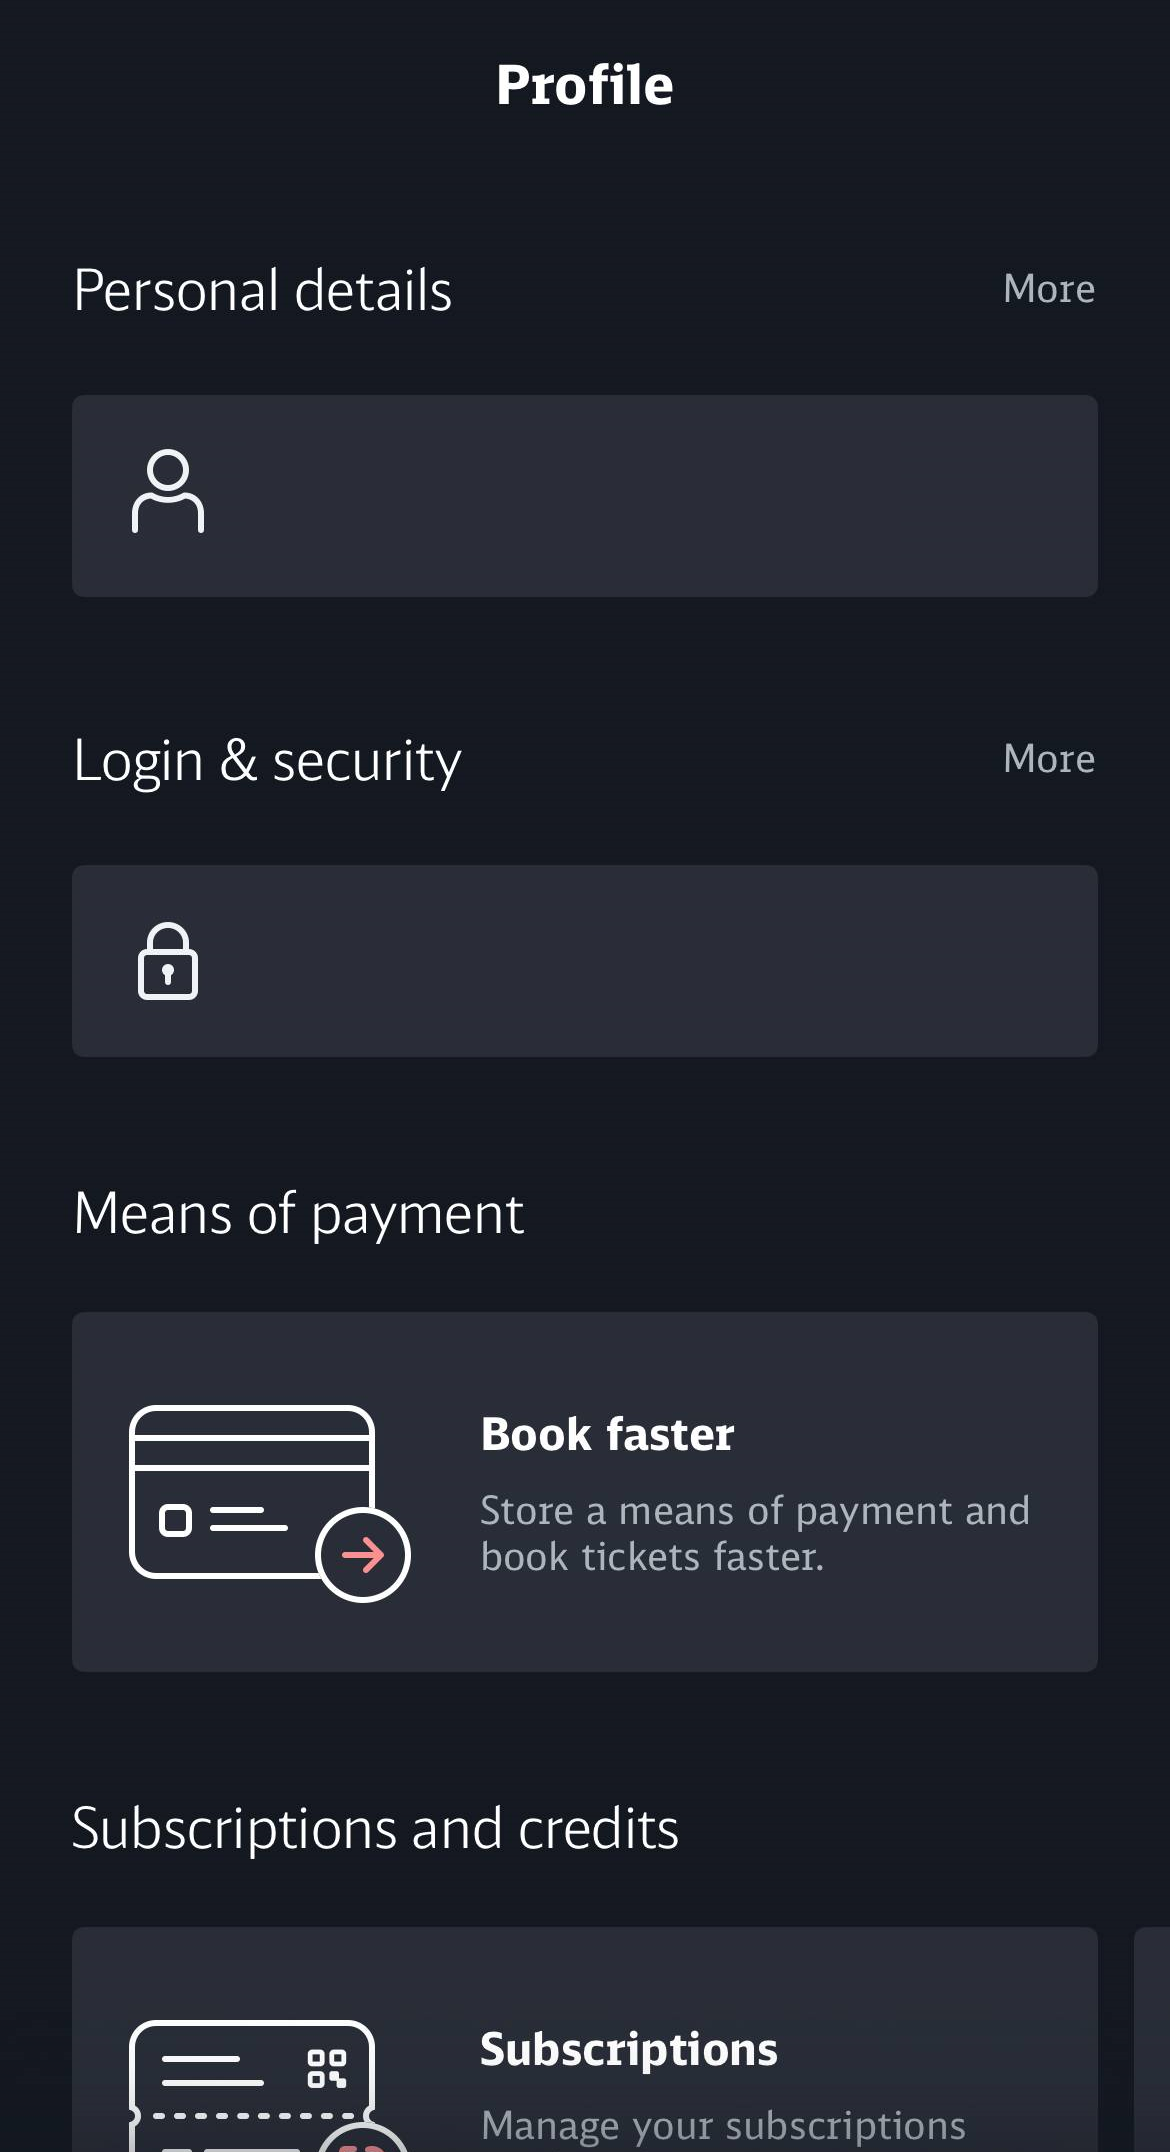
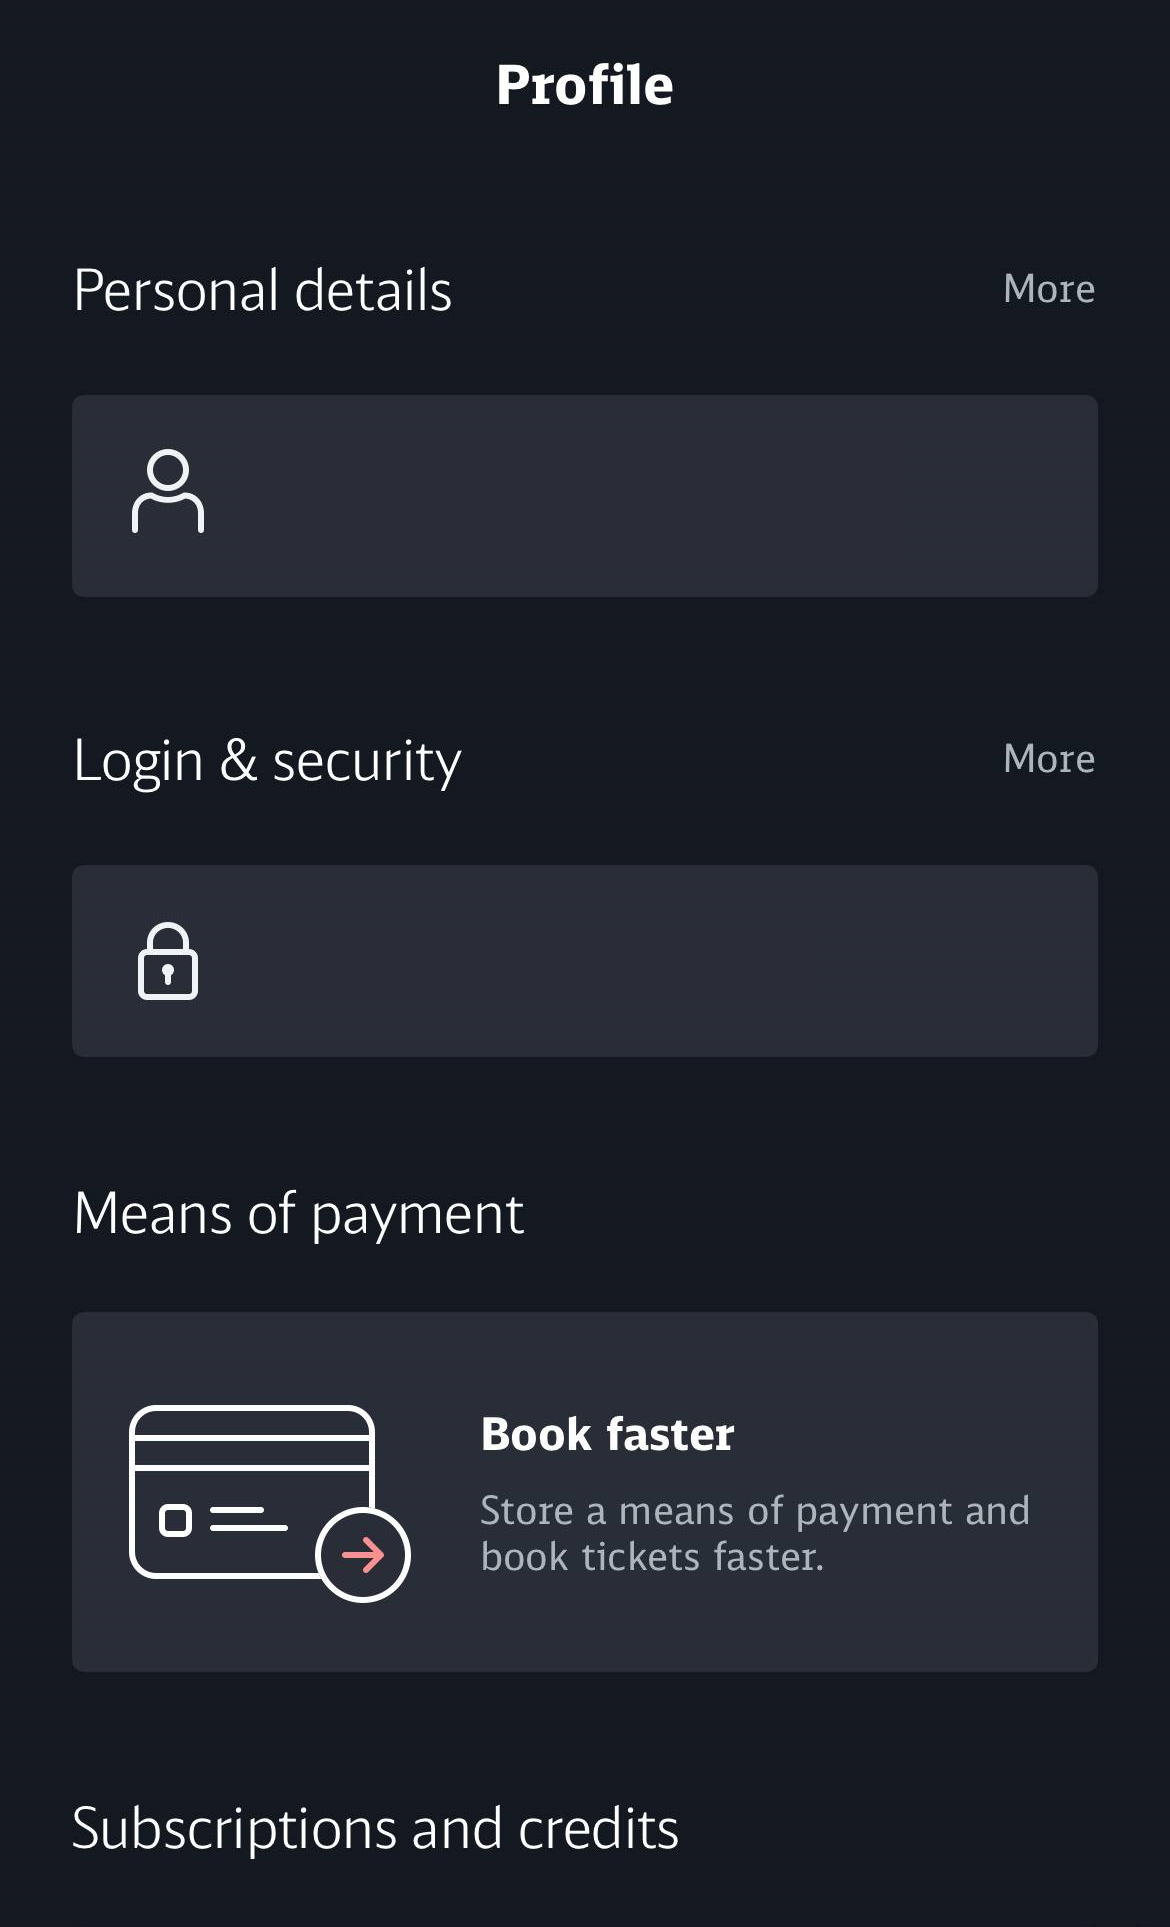
Open media fullscreen and blur the Profile tab bar

diff --git a/docs/style.css b/docs/style.css
@@ -91,50 +91,36 @@ h1, h2, p { margin: 0; }
   font-weight: 750;
   text-align: left;
 }
-.detail-heading {
-  position: relative;
-  display: flex;
-  justify-content: center;
-  align-items: center;
-  min-height: calc(160 * var(--unit));
-  padding-inline: calc(185 * var(--unit));
-  text-align: center;
-}
-.detail-heading h2 { font-size: calc(52 * var(--unit)); line-height: 1.12; }
 .back-button {
   position: absolute;
-  left: calc(48 * var(--unit));
+  inset-block-start: max(14px, env(safe-area-inset-top));
+  inset-inline-start: 16px;
   display: grid;
   place-items: center;
-  width: calc(132 * var(--unit));
-  height: calc(132 * var(--unit));
-  border: 1px solid #353944;
+  width: 48px;
+  height: 48px;
+  padding: 0;
+  border: 1px solid #f6f8fb3d;
   border-radius: 50%;
-  background: transparent;
+  background: #161922b5;
+  -webkit-backdrop-filter: blur(8px);
+  backdrop-filter: blur(8px);
 }
-.back-button svg { width: calc(63 * var(--unit)); height: calc(63 * var(--unit)); }
-.back-button svg, .profile-photo svg {
+.back-button svg { width: 24px; height: 24px; }
+.back-button svg, .profile-photo svg, .subscription-card svg {
   fill: none;
   stroke: currentColor;
   stroke-width: 1.7;
   stroke-linecap: round;
   stroke-linejoin: round;
 }
-.video-stage {
-  display: grid;
-  place-items: center;
-  position: relative;
-  background: #101117;
+.personal-more {
+  top: calc(225 * var(--unit));
+  right: calc(52 * var(--unit));
+  width: calc(146 * var(--unit));
+  height: calc(132 * var(--unit));
+  border-radius: calc(13 * var(--unit));
 }
-#local-video {
-  display: block;
-  width: 100%;
-  min-height: calc(330 * var(--unit));
-  max-height: calc(100dvh - 455 * var(--unit) - env(safe-area-inset-top) - env(safe-area-inset-bottom));
-  object-fit: contain;
-  pointer-events: none;
-}
-
 .personal-card {
   top: calc(395 * var(--unit));
   left: calc(72 * var(--unit));
@@ -144,6 +130,7 @@ h1, h2, p { margin: 0; }
   border-radius: calc(13 * var(--unit));
   text-align: left;
 }
+.personal-card[aria-disabled="true"] { cursor: default; }
 .personal-card strong, .personal-card > span {
   display: block;
   overflow: hidden;
@@ -162,11 +149,39 @@ h1, h2, p { margin: 0; }
   line-height: calc(58 * var(--unit));
   font-weight: 750;
 }
-.profile-tail {
-  margin-inline: calc(72 * var(--unit));
-  height: calc(136 * var(--unit));
-  border-radius: 0 0 calc(13 * var(--unit)) calc(13 * var(--unit));
-  background: #252834;
+.subscription-row {
+  display: flex;
+  gap: calc(36 * var(--unit));
+  padding-inline-start: calc(72 * var(--unit));
+  overflow: hidden;
+}
+.subscription-card, .subscription-row::after {
+  flex: 0 0 calc(1026 * var(--unit));
+  min-height: calc(360 * var(--unit));
+  background: var(--panel);
+  border-radius: calc(13 * var(--unit));
+}
+.subscription-row::after { content: ""; opacity: .8; }
+.subscription-card {
+  display: flex;
+  align-items: center;
+  gap: calc(70 * var(--unit));
+  padding: calc(42 * var(--unit)) calc(48 * var(--unit)) calc(42 * var(--unit)) calc(58 * var(--unit));
+}
+.subscription-card svg {
+  flex: 0 0 calc(280 * var(--unit));
+  width: calc(280 * var(--unit));
+  stroke-width: 6px;
+}
+.subscription-perforation { stroke-dasharray: 4 16; }
+.subscription-badge { fill: var(--panel); }
+.subscription-accent { stroke: var(--accent); }
+.subscription-card h2 { font-size: calc(46 * var(--unit)); }
+.subscription-card p {
+  color: var(--muted);
+  font-size: calc(40 * var(--unit));
+  line-height: 1.2;
+  margin-top: calc(26 * var(--unit));
 }
 
 .dock {
@@ -197,6 +212,22 @@ h1, h2, p { margin: 0; }
 .dock[data-active="profile"] [data-dock="profile"] { display: block; }
 .dock button { width: 100%; padding: 0; border: 0; border-radius: 999px; background: transparent; }
 .dock button:focus-visible { outline-offset: -5px; }
+.dock[data-active="profile"] {
+  background: #222a39b8;
+  box-shadow: inset 0 0 0 1px #5967818c;
+  -webkit-backdrop-filter: blur(10px) saturate(125%);
+  backdrop-filter: blur(10px) saturate(125%);
+}
+.dock[data-active="profile"]::before {
+  content: "";
+  position: absolute;
+  z-index: -2;
+  inset: calc(12 * var(--unit)) calc(12 * var(--unit)) calc(15 * var(--unit)) auto;
+  width: calc(275 * var(--unit));
+  background: #8692a251;
+  border-radius: inherit;
+}
+.dock[data-active="profile"] .dock-art { inset: 0; }
 
 dialog {
   width: min(calc(100% - 32px), 400px);
@@ -208,6 +239,36 @@ dialog {
   color: var(--text);
 }
 dialog::backdrop { background: #090a10c7; }
+.fullscreen-viewer {
+  position: fixed;
+  inset: 0;
+  width: min(100%, 440px);
+  height: 100%;
+  height: 100dvh;
+  max-width: none;
+  max-height: none;
+  padding: 0;
+  margin: auto;
+  overflow: hidden;
+  border: 0;
+  border-radius: 0;
+  background: #000;
+}
+.fullscreen-viewer::backdrop { background: #090a10; }
+.fullscreen-viewer[open] {
+  display: grid;
+  grid-template: minmax(0, 1fr) / minmax(0, 1fr);
+  place-items: center;
+}
+.fullscreen-viewer video, .fullscreen-viewer img {
+  display: block;
+  width: 100%;
+  height: 100%;
+  object-fit: contain;
+  pointer-events: none;
+  user-select: none;
+}
+#photo-viewer { touch-action: none; }
 .dialog-heading { display: flex; justify-content: space-between; align-items: center; gap: 8px; margin-bottom: 12px; }
 .dialog-heading h2 { font-size: 20px; }
 .dialog-copy { margin-bottom: 16px; color: var(--muted); line-height: 1.4; }

diff --git a/docs/index.html b/docs/index.html
@@ -46,31 +46,36 @@
           <img class="reference-image" src="./journeys-previous.png" width="1170" height="520" alt="Previous trips. Previous and cancelled journeys, BahnCards, season tickets and subscriptions.">
         </div>
 
-        <div id="video-view" hidden>
-          <header class="detail-heading">
-            <button class="back-button" id="back-to-journeys" type="button" aria-label="Back to Journeys">
-              <svg viewBox="0 0 24 24" aria-hidden="true"><path d="m15 4-8 8 8 8"/></svg>
-            </button>
-            <h2>Deutschland Ticket</h2>
-          </header>
-          <div class="video-stage">
-            <video id="local-video" playsinline muted loop disablepictureinpicture disableremoteplayback aria-label="Selected local video"></video>
-            <p id="video-error" class="feedback video-error" role="alert" hidden></p>
-          </div>
-        </div>
       </section>
 
       <section id="profile" aria-labelledby="profile-heading" hidden>
         <h1 class="sr-only" id="profile-heading">Profile</h1>
         <div class="reference">
-          <img class="reference-image" src="./profile-reference.png" width="1170" height="2152" alt="Personal details. Login and security. Means of payment, Book faster. Subscriptions and credits.">
-          <button class="reference-hit personal-card" id="open-profile" type="button" aria-label="Open personal details">
+          <img class="reference-image" src="./profile-reference.png" width="1170" height="1927" alt="Personal details. Login and security. Means of payment, Book faster. Subscriptions and credits.">
+          <button class="reference-hit personal-more" id="edit-profile" type="button" aria-label="More personal details"></button>
+          <button class="reference-hit personal-card" id="open-profile" type="button" aria-describedby="photo-card-action" aria-disabled="true">
             <strong id="display-name">Mr Alex Morgan</strong>
             <span>Customer ID 0000 0000 0000</span>
           </button>
+          <span class="sr-only" id="photo-card-action">Opens the saved profile photo</span>
           <p class="demo-email">passenger@example.com</p>
         </div>
-        <div class="profile-tail" aria-hidden="true"></div>
+        <div class="subscription-row">
+          <article class="subscription-card" aria-labelledby="subscription-heading">
+            <svg viewBox="0 0 280 220" aria-hidden="true">
+              <path d="M34 23h183a24 24 0 0 1 24 24v65a8 8 0 0 0 0 16v48a23 23 0 0 1-23 23H33a24 24 0 0 1-24-24v-47a8 8 0 0 0 0-16V47a24 24 0 0 1 25-24Z"/>
+              <path d="M41 59h72m-72 24h96m-96 68h24m17 0h90m-131 22h72" />
+              <path class="subscription-perforation" d="M32 116h186" />
+              <path d="M187 53h10v10h-10zm21 0h10v10h-10zm-21 21h10v10h-10zm22 0h8v8m-1 0h5" />
+              <circle class="subscription-badge" cx="230" cy="171" r="43" />
+              <path class="subscription-accent" d="M221 157h-5a10 10 0 0 0 0 20h8m13-20h6a10 10 0 1 1 0 20h-8m-14-10h18"/>
+            </svg>
+            <div>
+              <h2 id="subscription-heading">Subscriptions</h2>
+              <p>Manage your subscriptions<br>and their details.</p>
+            </div>
+          </article>
+        </div>
       </section>
     </main>
 
@@ -83,6 +88,19 @@
       <button type="button" data-page="journeys" aria-controls="journeys"><span class="sr-only">Journeys</span></button>
       <button type="button" data-page="profile" aria-controls="profile"><span class="sr-only">Profile</span></button>
     </nav>
+
+    <dialog class="fullscreen-viewer" id="video-view" aria-label="Deutschland Ticket">
+      <video id="local-video" playsinline muted loop disablepictureinpicture disableremoteplayback aria-label="Selected local video"></video>
+      <button class="back-button" id="back-to-journeys" type="button" aria-label="Back to Journeys">
+        <svg viewBox="0 0 24 24" aria-hidden="true"><path d="m15 4-8 8 8 8"/></svg>
+      </button>
+      <p id="video-error" class="feedback video-error" role="alert" hidden></p>
+    </dialog>
+
+    <dialog class="fullscreen-viewer" id="photo-viewer" aria-labelledby="photo-viewer-label">
+      <span class="sr-only" id="photo-viewer-label">Saved profile photo. Swipe right or down to close.</span>
+      <img id="fullscreen-photo" alt="Saved profile photo" draggable="false">
+    </dialog>
 
     <dialog id="video-dialog" aria-labelledby="video-dialog-title">
       <div class="dialog-heading">

diff --git a/docs/app.js b/docs/app.js
@@ -17,7 +17,6 @@ function showPage(nextPage) {
   activePage = nextPage;
   dock.dataset.active = nextPage;
   screen.scrollTop = scrollPositions.get(nextPage) ?? 0;
-  if (nextPage === 'journeys' && !videoView.hidden) playVideo();
 }
 
 navigation.forEach((button) => {
@@ -33,7 +32,6 @@ const videoDialog = byId('video-dialog');
 const videoInput = byId('video-file');
 const videoPickError = byId('video-pick-error');
 const videoError = byId('video-error');
-const videoList = byId('journeys-list');
 const videoView = byId('video-view');
 const video = byId('local-video');
 const ticket = byId('open-video');
@@ -85,22 +83,17 @@ video.addEventListener('error', () => {
 });
 
 ticket.addEventListener('click', () => {
-  videoList.hidden = true;
-  videoView.hidden = false;
-  screen.scrollTop = 0;
+  videoView.showModal();
   playVideo();
-  byId('back-to-journeys').focus();
 });
 
 byId('back-to-journeys').addEventListener('click', () => {
-  video.pause();
-  videoView.hidden = true;
-  videoList.hidden = false;
-  ticket.focus();
+  videoView.close();
 });
+videoView.addEventListener('close', () => video.pause());
 
 document.addEventListener('visibilitychange', () => {
-  if (!document.hidden && activePage === 'journeys' && !videoView.hidden) playVideo();
+  if (!document.hidden && videoView.open) playVideo();
 });
 byId('refresh').addEventListener('click', () => {
   byId('refresh-status').textContent = 'Checked this session. No trips exist.';
@@ -110,6 +103,9 @@ const profileDialog = byId('profile-dialog');
 const photoInput = byId('photo-file');
 const pickPhoto = byId('pick-photo');
 const savedPhoto = byId('saved-photo');
+const profileCard = byId('open-profile');
+const photoViewer = byId('photo-viewer');
+const fullscreenPhoto = byId('fullscreen-photo');
 const photoStatus = byId('photo-status');
 const nameForm = byId('name-form');
 const nameInput = byId('name');
@@ -162,8 +158,10 @@ function showPhoto(url) {
   const previousUrl = photoUrl;
   photoUrl = url;
   savedPhoto.src = url;
+  fullscreenPhoto.src = url;
   savedPhoto.hidden = false;
   byId('empty-photo').hidden = true;
+  profileCard.removeAttribute('aria-disabled');
   pickPhoto.querySelector('[data-photo-label]').textContent = 'Replace photo';
   if (previousUrl) URL.revokeObjectURL(previousUrl);
 }
@@ -189,11 +187,53 @@ const initialProfile = readProfile().then(({name, photo}) => {
   if (photo instanceof Blob) showPhoto(URL.createObjectURL(photo));
 }).catch(() => feedback(photoStatus, 'Saved profile details could not be read.'));
 
-byId('open-profile').addEventListener('click', () => {
+byId('edit-profile').addEventListener('click', () => {
   nameInput.value = currentName;
   feedback(nameStatus);
   profileDialog.showModal();
 });
+
+profileCard.addEventListener('click', () => {
+  if (!photoUrl || photoViewer.open) return;
+  if (!history.state?.waylinePhoto) {
+    history.pushState({...history.state, waylinePhoto: true}, '');
+  }
+  photoViewer.showModal();
+});
+
+function closePhotoViewer() {
+  photoViewer.close();
+  if (history.state?.waylinePhoto) history.back();
+}
+
+photoViewer.addEventListener('cancel', (event) => {
+  event.preventDefault();
+  closePhotoViewer();
+});
+window.addEventListener('popstate', () => {
+  if (history.state?.waylinePhoto) {
+    if (photoUrl && !photoViewer.open) photoViewer.showModal();
+  } else if (photoViewer.open) {
+    photoViewer.close();
+  }
+});
+
+let photoSwipeStart;
+photoViewer.addEventListener('pointerdown', (event) => {
+  if (!event.isPrimary || event.button !== 0) return;
+  photoSwipeStart = {id: event.pointerId, x: event.clientX, y: event.clientY};
+  photoViewer.setPointerCapture(event.pointerId);
+});
+photoViewer.addEventListener('pointerup', (event) => {
+  if (photoSwipeStart?.id !== event.pointerId) return;
+  const dx = event.clientX - photoSwipeStart.x;
+  const dy = event.clientY - photoSwipeStart.y;
+  photoSwipeStart = undefined;
+  if ((dx > 55 && dx > Math.abs(dy)) || (dy > 65 && dy > Math.abs(dx))) {
+    closePhotoViewer();
+  }
+});
+photoViewer.addEventListener('pointercancel', () => { photoSwipeStart = undefined; });
 
 pickPhoto.addEventListener('click', () => photoInput.click());
 photoInput.addEventListener('change', async () => {

diff --git a/docs/sw.js b/docs/sw.js
@@ -2,7 +2,7 @@
 
 const scope = self.registration.scope;
 const cachePrefix = 'wayline:' + scope + ':';
-const build = '4';
+const build = '5';
 const cacheName = cachePrefix + build;
 const appFiles = [
   './index.html',
